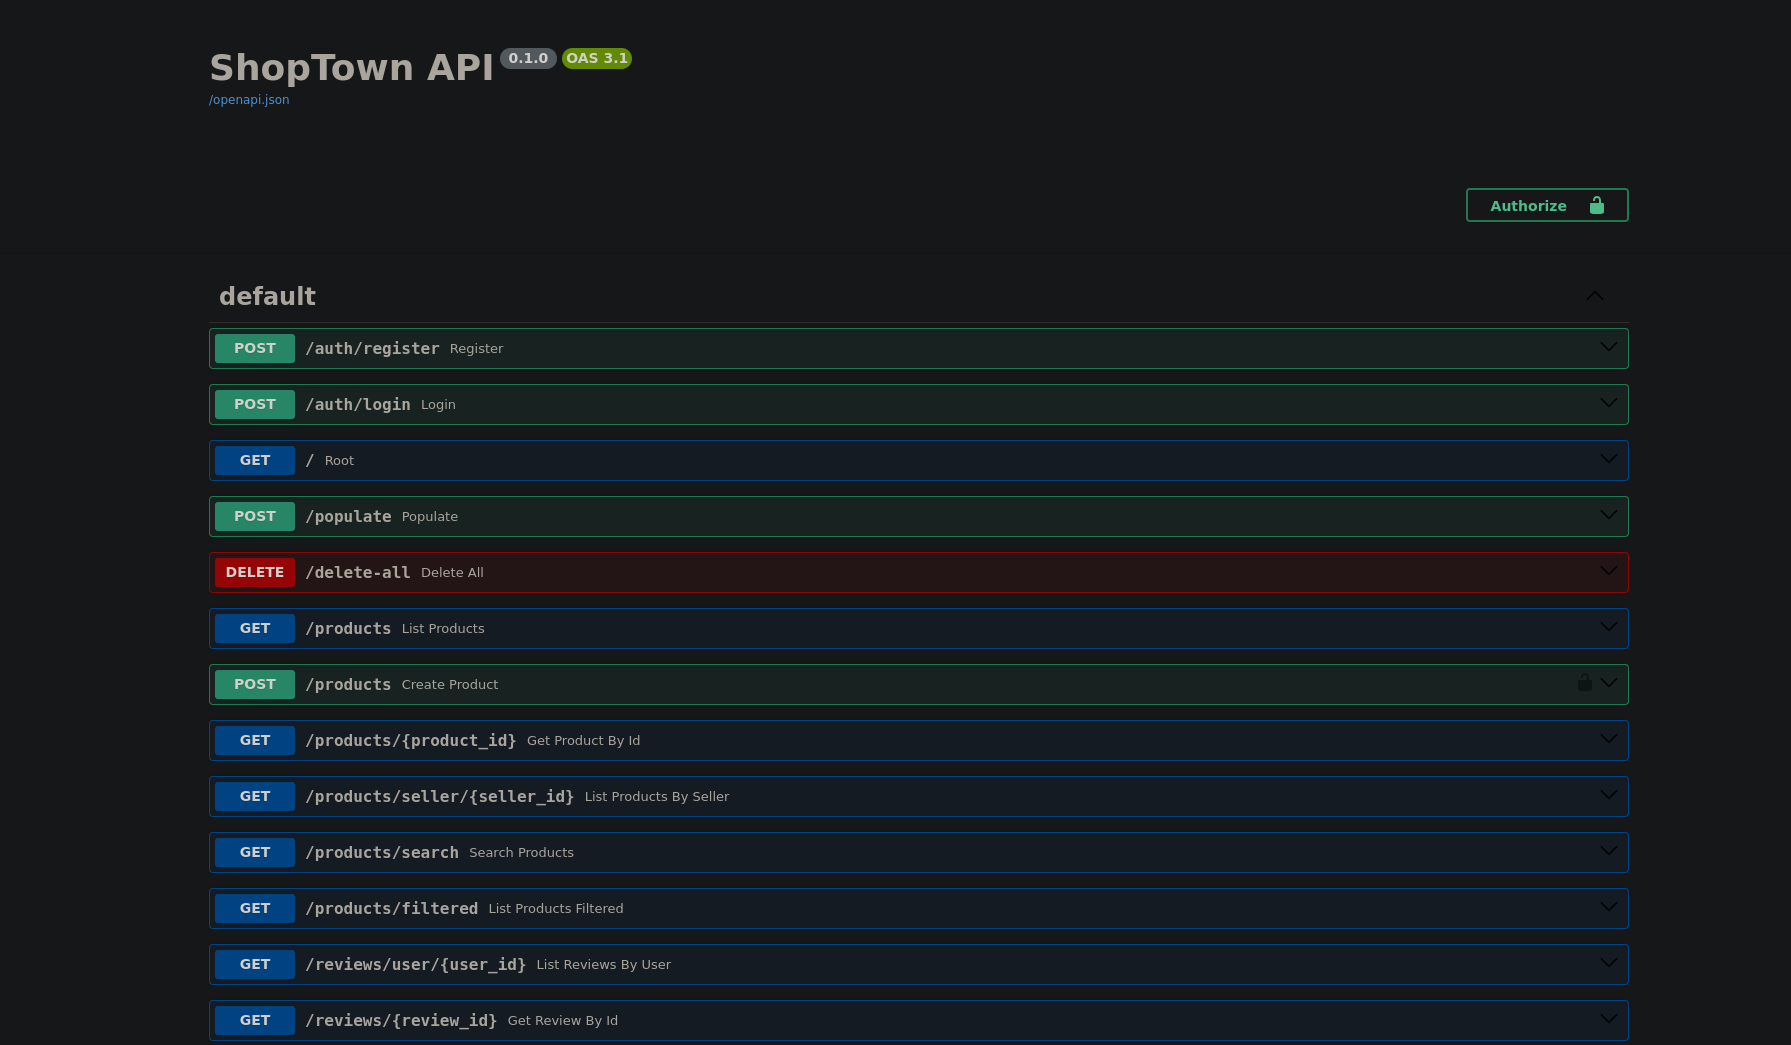
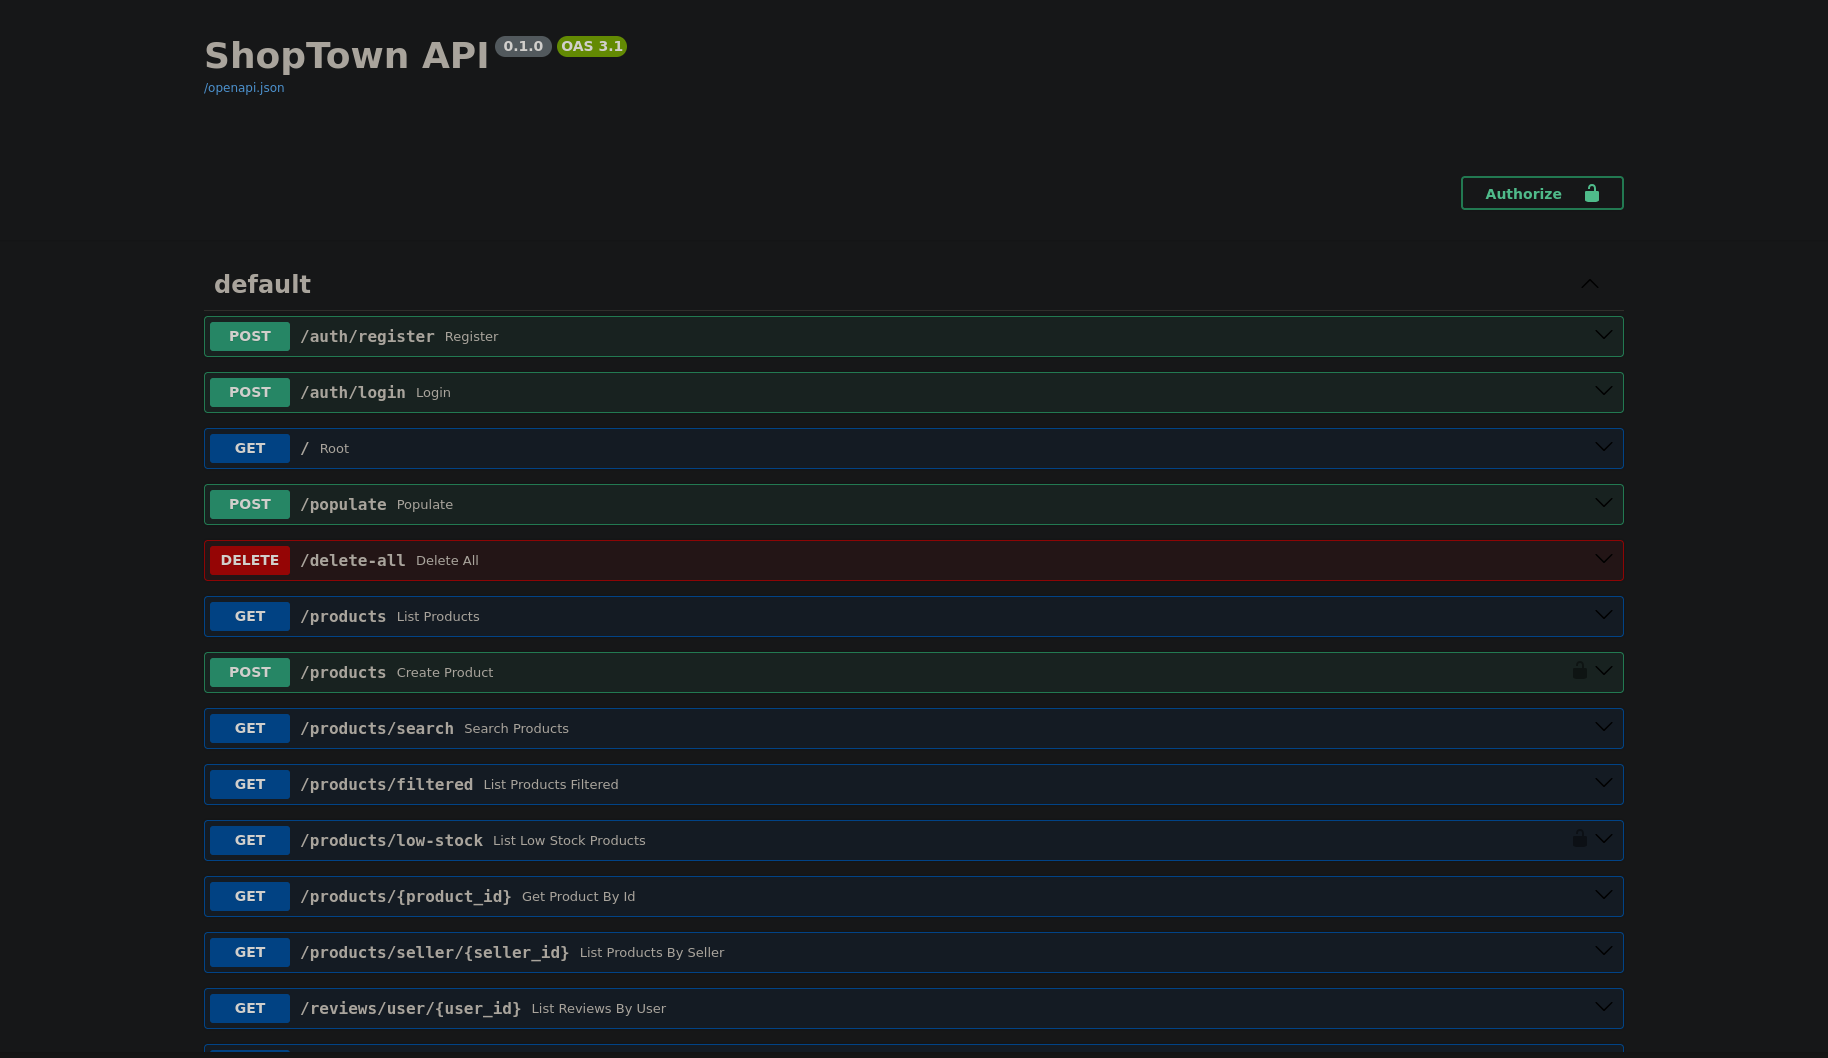
Docs is done

diff --git a/README.md b/README.md
@@ -363,26 +363,100 @@ This file defines all API endpoints of **ShopTown**, wires up routes, and connec
 - **Utils:** `utils/` handles dummy data, cleanup scripts.
 - **Security:** `core/security.py` + `core/dependencies.py` manage auth.
 
+## Recommendation Systems
+
+This project implements **three types of recommendation systems**:
+
+### 1. Collaborative Filtering (SVD)
+- **How it works:**
+  - Uses the `surprise` library’s SVD (Singular Value Decomposition).
+  - Learns *latent features* from the `Reviews` table (user_id, product_id, rating).
+  - Predicts how much a user will like an unrated product based on patterns in the entire user-product rating matrix.
+
+- **Simple example:**  
+  Suppose:
+User u1 rated Product p1: 4
+User u1 rated Product p2: 5
+User u2 rated Product p2: 3
+User u3 rated Product p1: 2
+
+The model learns that u1 tends to like products similar to p1 and p2, and predicts ratings for other products accordingly.
+
+---
+
+### 2. Content-Based Filtering (TF-IDF + Cosine Similarity)
+- **How it works:**  
+- Builds a TF-IDF matrix on product `name + description`.
+- Finds products most similar (textually) to what the user liked (rating >= 3).
+
+- **Simple example:**  
+If a user liked `Granola - Crunchy oats with honey`, they might be recommended `Honey Oat Bars - Sweet snack`, because of shared terms like *honey* and *oats*.
+
+---
+
+### 3. Gradient Boosting Regressor (XGBoost)
+- **How it works:**  
+- Trains an XGBoost regressor on:
+  - `price`
+  - encoded `seller_id`
+  - TF-IDF features from `name + description`
+- Predicts ratings for unseen products.
+
+- **Simple example:**  
+If user reviews show preference for mid-priced products from a certain seller, and descriptions mentioning *eco-friendly*, the model learns this pattern and predicts high ratings for similar future products.
+
+---
+
+### How to Use these Endpoints
+- `GET /recommendations/collaborative/{user_id}` → Get SVD-based recommendations.
+- `GET /recommendations/content/{user_id}` → Get content-based recommendations.
+- `POST /recommendations/gradientboost/train` → Train XGBoost model.
+- `GET /recommendations/gradientboost/{user_id}` → Get gradient-boost recommendations.
+
+
 ## Some FastAPI docs images
 
 ![start](images/start.png)
 
 ![start2](images/start2.png)
 
-![populate](images/populate.png)
+![1](images/1.png)
 
-![db](images/db.png)
+![2](images/2.png)
 
-![get_products](images/get_products.png)
+![3](images/3.png)
 
-![get_products_id](images/get_products_id.png)
+![4](images/4.png)
 
-![](images/.png)
+![5](images/5.png)
 
-![](images/.png)
+![6](images/6.png)
 
-![](images/.png)
+![7](images/7.png)
 
-![](images/.png)
+![8](images/8.png)
 
-![](images/example-output.png)
+![9](images/9.png)
+
+![10](images/10.png)
+
+![11](images/11.png)
+
+![12](images/12.png)
+
+![13](images/13.png)
+
+![14](images/14.png)
+
+![15](images/15.png)
+
+![16](images/16.png)
+
+![17](images/17.png)
+
+![18](images/18.png)
+
+![19](images/19.png)
+
+![20](images/20.png)
+...
